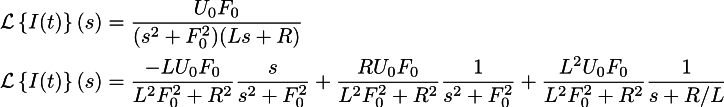
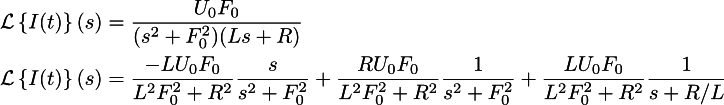
typos

diff --git a/tutorials/dcmotor/f11.tex b/tutorials/dcmotor/f11.tex
@@ -15,6 +15,6 @@
 \begin{document}
 \begin{align*}
     \Laplace{I(t)}  & = \frac{U_0 F_0}{(s^2 + F_0^2)(Ls+R)} \\
-    \Laplace{I(t)}  & = \frac{-L U_0 F_0}{L^2 F_0^2 + R^2}\frac{s}{s^2 + F_0^2} +  \frac{R U_0 F_0}{L^2 F_0^2 + R^2}\frac{1}{s^2 + F_0^2} + \frac{L^2 U_0 F_0}{L^2 F_0^2 + R^2}\frac{1}{s + R/L}  \\
+    \Laplace{I(t)}  & = \frac{-L U_0 F_0}{L^2 F_0^2 + R^2}\frac{s}{s^2 + F_0^2} +  \frac{R U_0 F_0}{L^2 F_0^2 + R^2}\frac{1}{s^2 + F_0^2} + \frac{L U_0 F_0}{L^2 F_0^2 + R^2}\frac{1}{s + R/L}  \\
 \end{align*}
 \end{document}
